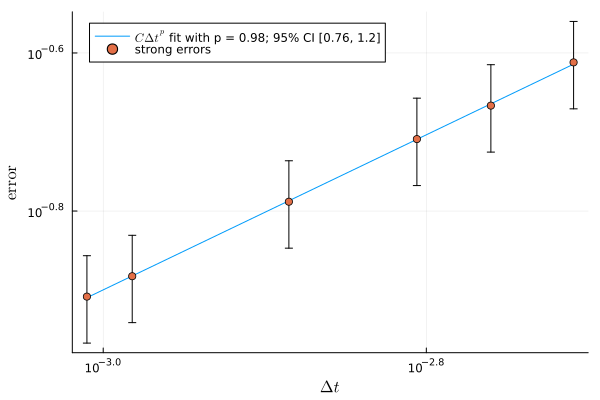
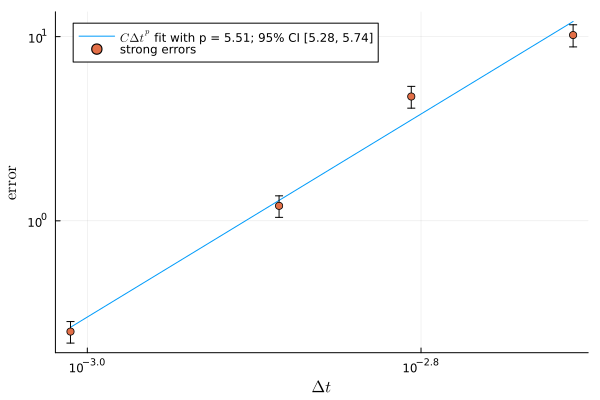
fisher kpp with variable discretization
not good yet

diff --git a/docs/src/examples/09-fisherkpp.md b/docs/src/examples/09-fisherkpp.md
@@ -84,7 +84,7 @@ t0, tf = 0.0, 2.0
 The discretization in space is made with `l` mesh points $x_j = (j-1) / (l-1)$, for $j = 1, \ldots, l$, corresponding to `l-1` mesh intervals of length $\Delta x = 1 / (l-1)$. The points $x_1 = 0$ and $x_l = 1$ are the boundary points. We set `l` to
 
 ````@example 09-fisherkpp
-l = 17
+l = 33
 ````
 
 Notice that for the target solution we need a very fine *time* mesh, on top of having to repeat the simulation a number of times for the Monte-Carlo estimate. This is computationally demanding for large `l`, so we choose a moderate number just for illustration purpose.
@@ -281,6 +281,9 @@ Now we set up the mesh parameters. For stability reasons, we can't allow the tim
 ````@example 09-fisherkpp
 ntgt = 2^15 * 3^3 * 5
 ns = [2^10, 2^7 * 3^2, 2^8 * 5, 2^9 * 3, 2^7 * 3 * 5, 2^11]
+ks = [4, 4, 2, 2, 1, 1]
+ns = [2^10, 2^8 * 5, 2^9 * 3, 2^11]
+ks = [8, 4, 2, 1]
 nothing # hide
 ````
 
@@ -318,7 +321,7 @@ method = RandomEuler(length(u0law))
 With all the parameters set up, we build the convergence suite:
 
 ````@example 09-fisherkpp
-suite = ConvergenceSuite(t0, tf, u0law, f!, noise, target, method, ntgt, ns, m)
+suite = ConvergenceSuite(t0, tf, u0law, f!, noise, target, method, ntgt, ns, m, ks)
 ````
 
 Then we are ready to compute the errors:
